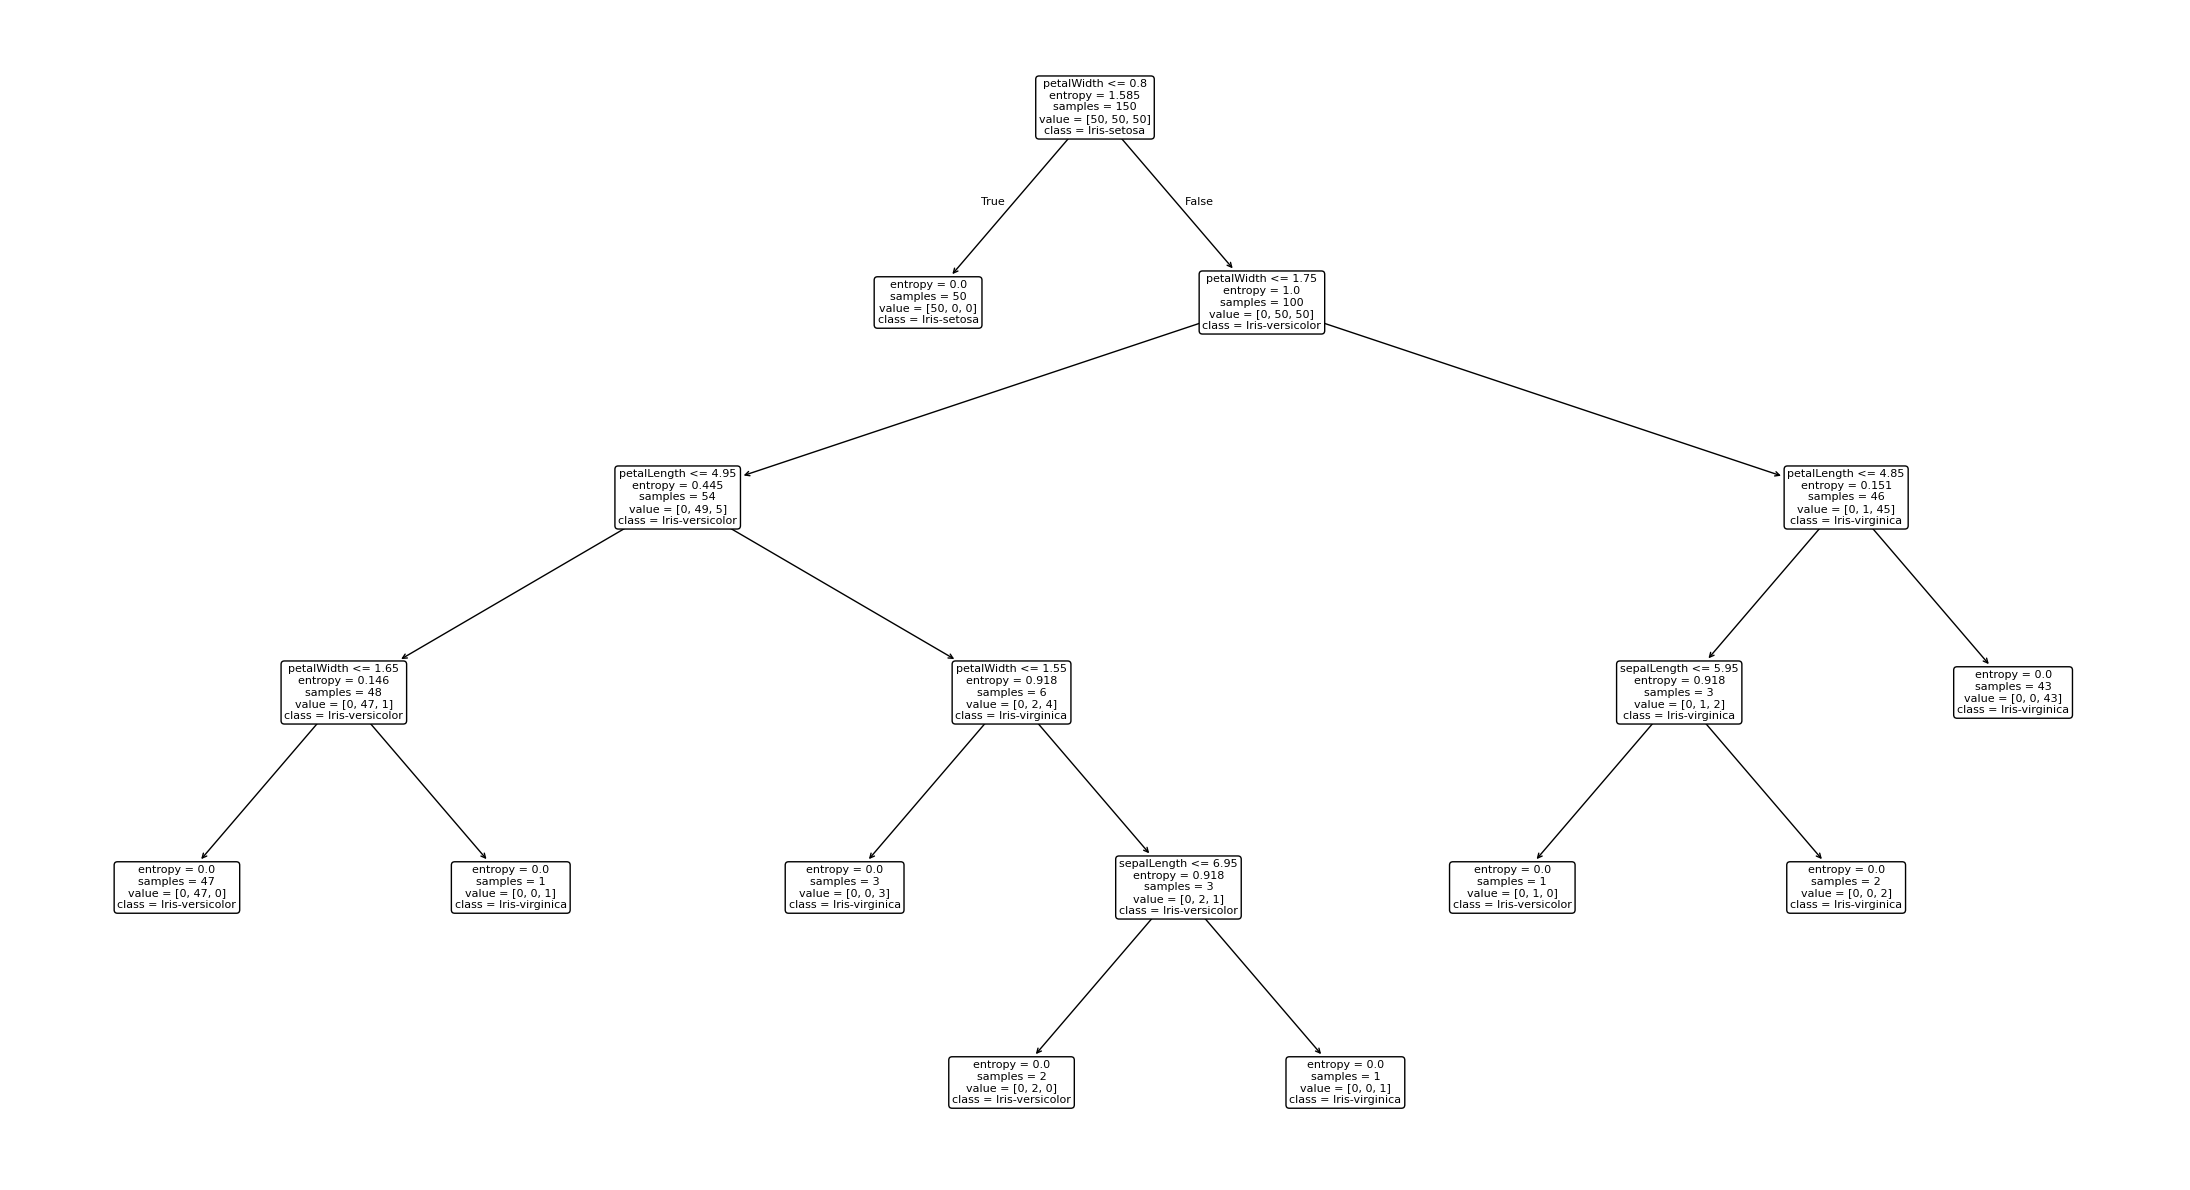
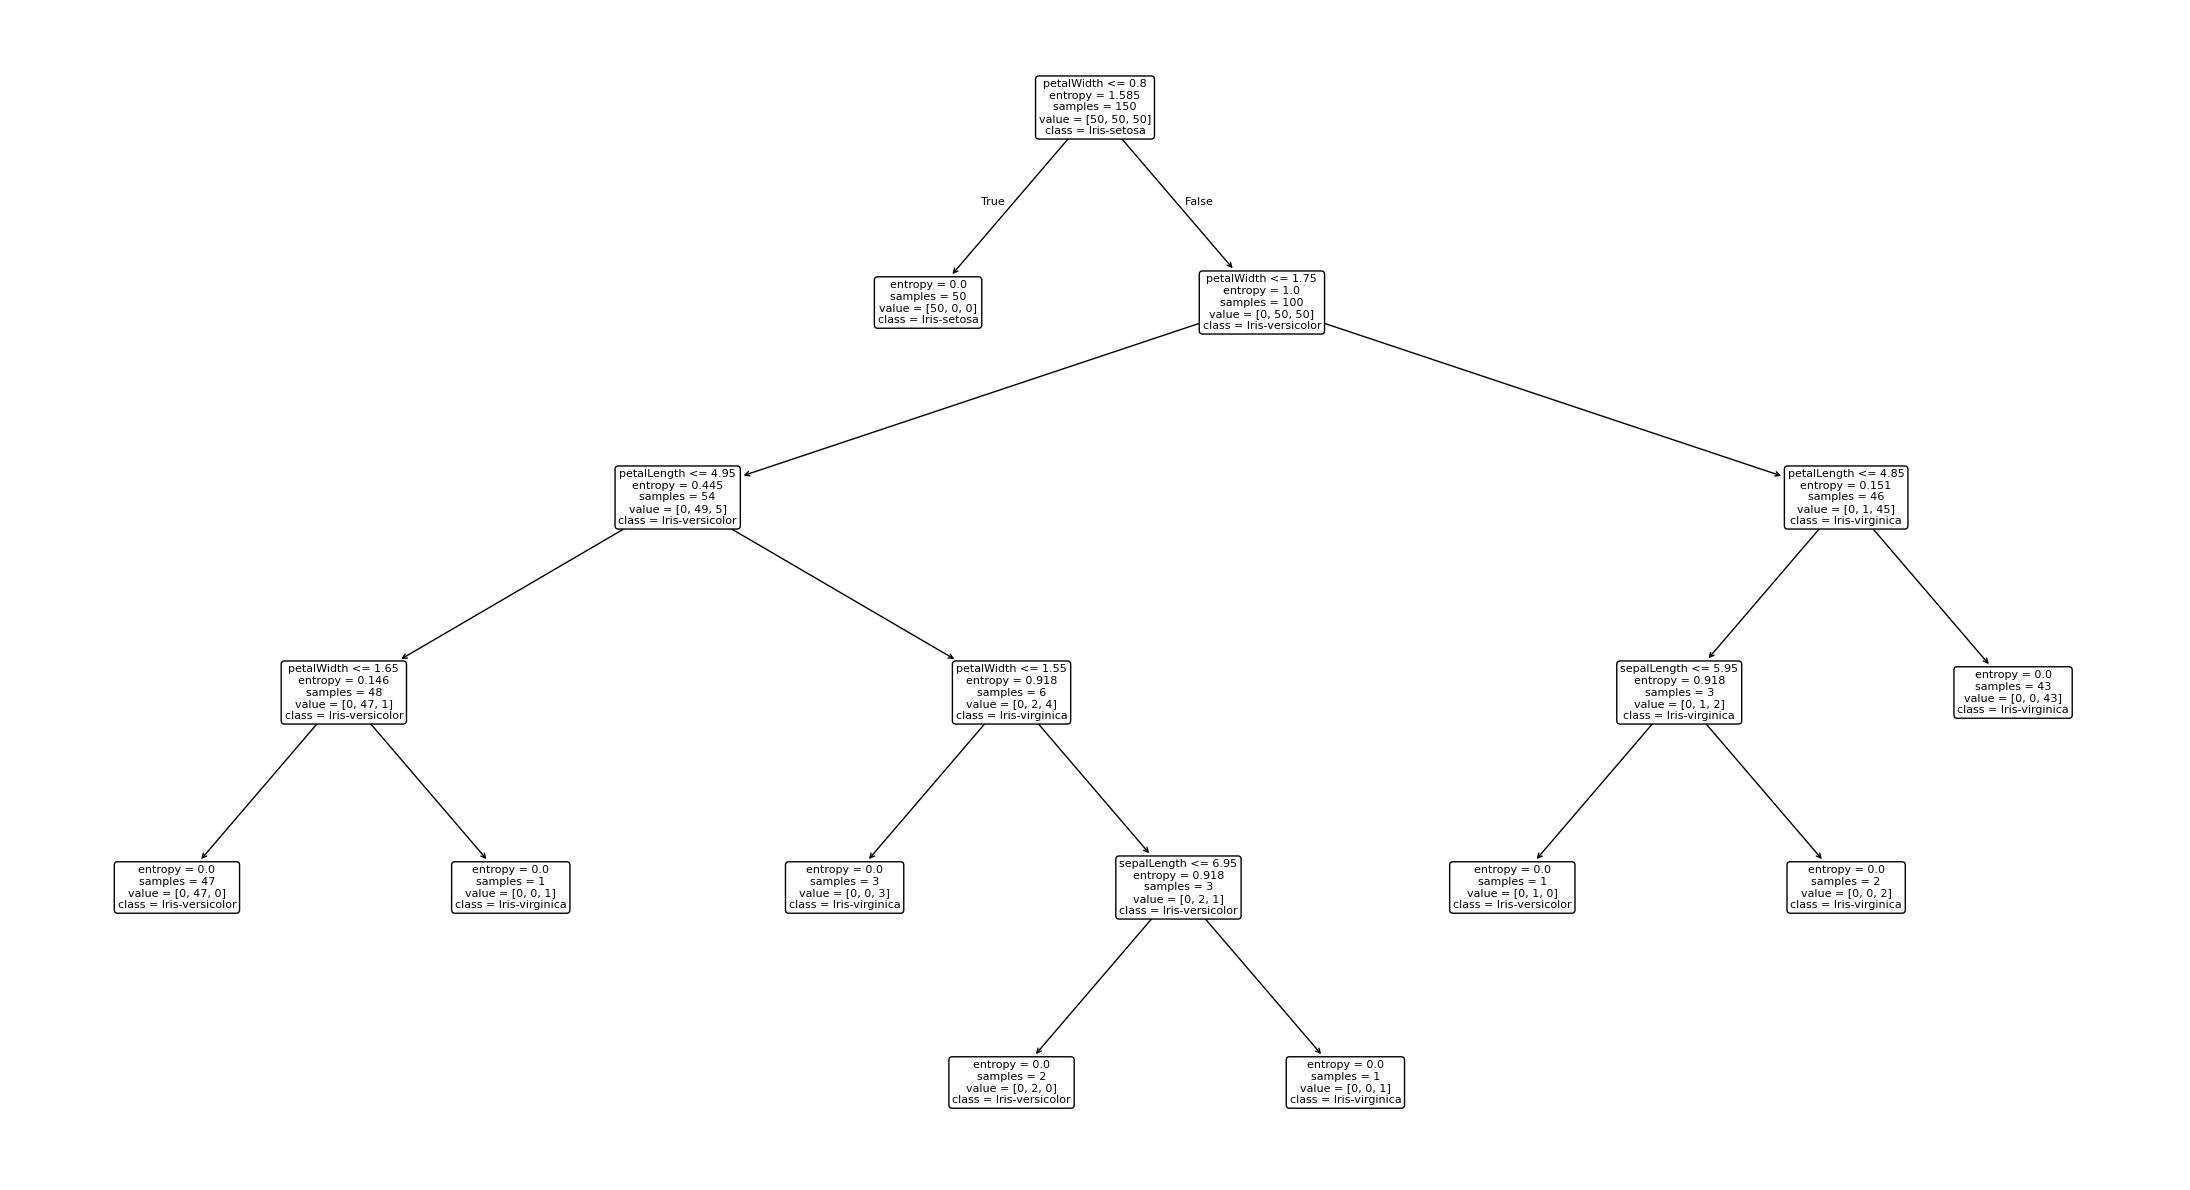
bugfixes

diff --git a/c45.py b/c45.py
@@ -50,6 +50,9 @@ class c45:
         if best_attr is None or best_score < self.threshold:
             return self._leaf(y)
 
+        if self.feature_types[best_attr] == "numeric" and best_split is None:
+            return self._leaf(y)
+        
         node = {
             "var": best_attr,
             "edges": []
@@ -250,3 +253,30 @@ class c45:
         return node["leaf"]["decision"]
 
 
+def load_lab_csv(filename):
+    import pandas as pd
+
+    with open(filename, "r") as f:
+        header = f.readline().strip().split(",")
+        type_codes = [int(x) for x in f.readline().strip().split(",")]
+        class_name = f.readline().strip()
+
+    df = pd.read_csv(filename, skiprows=3, names=header)
+
+    # Drop row ID / metadata columns marked -1
+    keep_cols = [col for col, code in zip(header, type_codes) if code != -1]
+    df = df[keep_cols]
+
+    y = df[class_name]
+    X = df.drop(columns=[class_name])
+
+    feature_types = {}
+    for col, code in zip(header, type_codes):
+        if col in X.columns:
+            if code == 0:
+                feature_types[col] = "numeric"
+                X[col] = pd.to_numeric(X[col], errors="coerce")
+            elif code > 0:
+                feature_types[col] = "categorical"
+
+    return X, y, feature_types